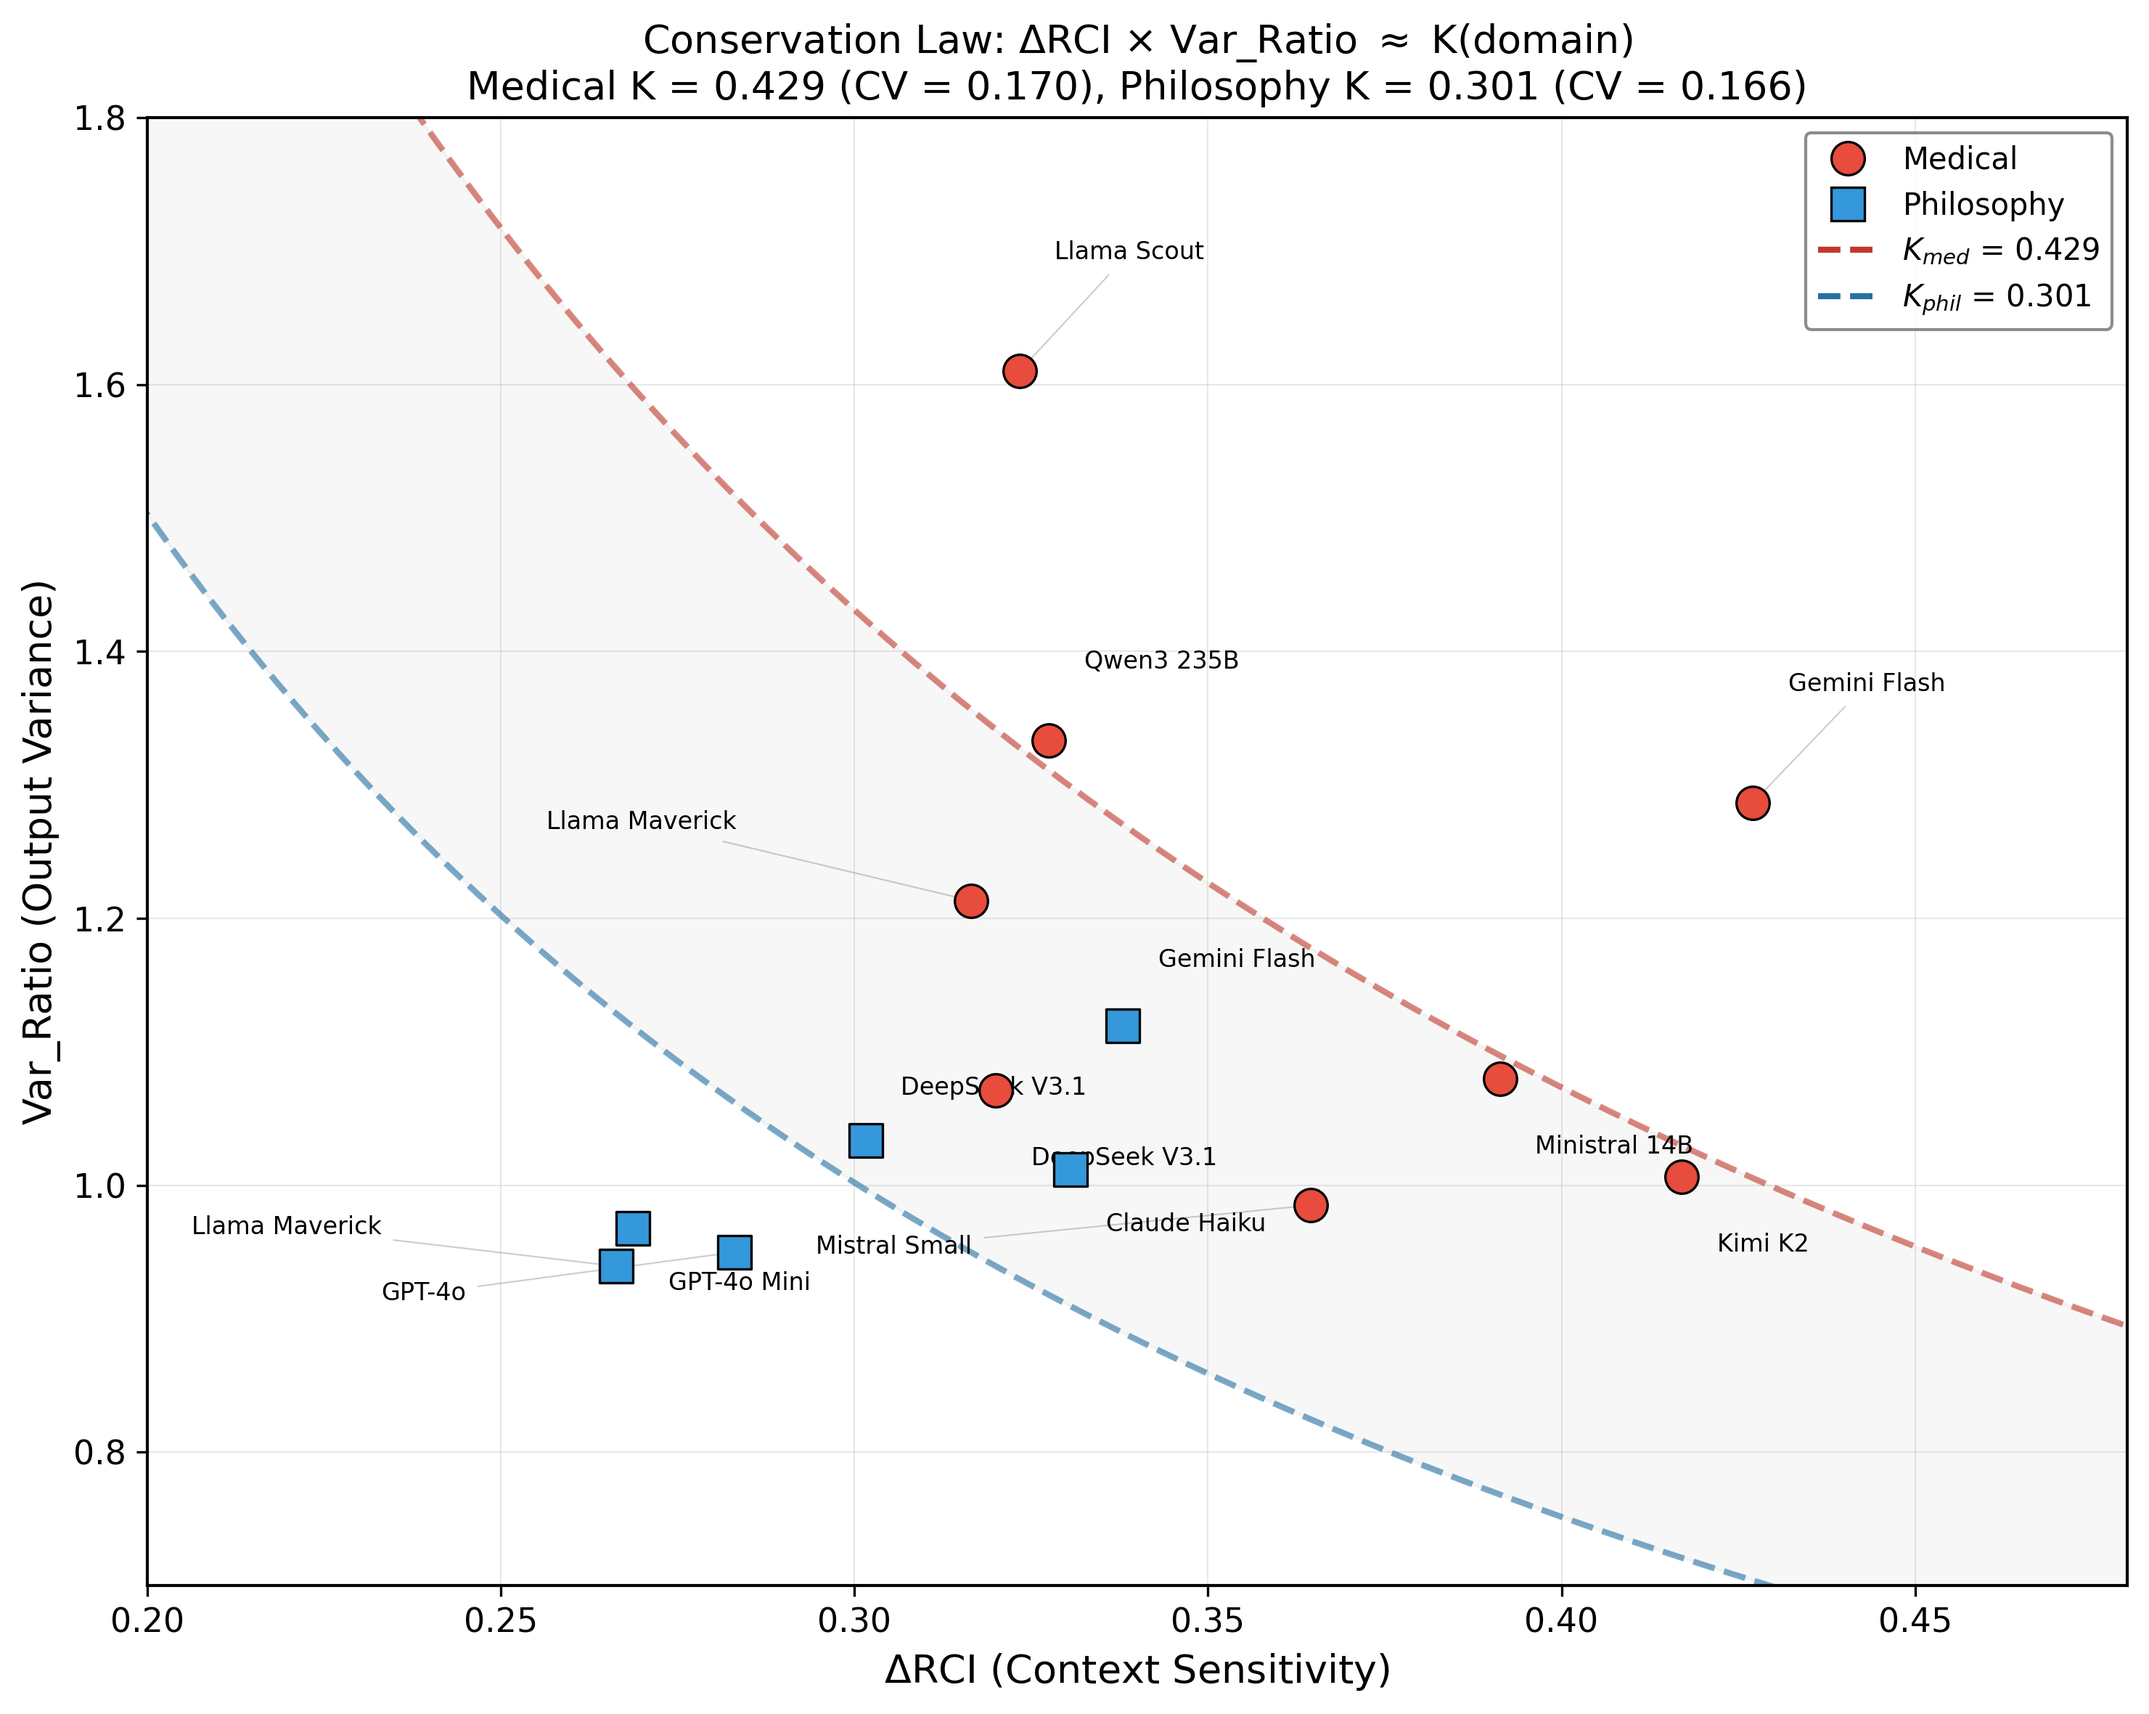
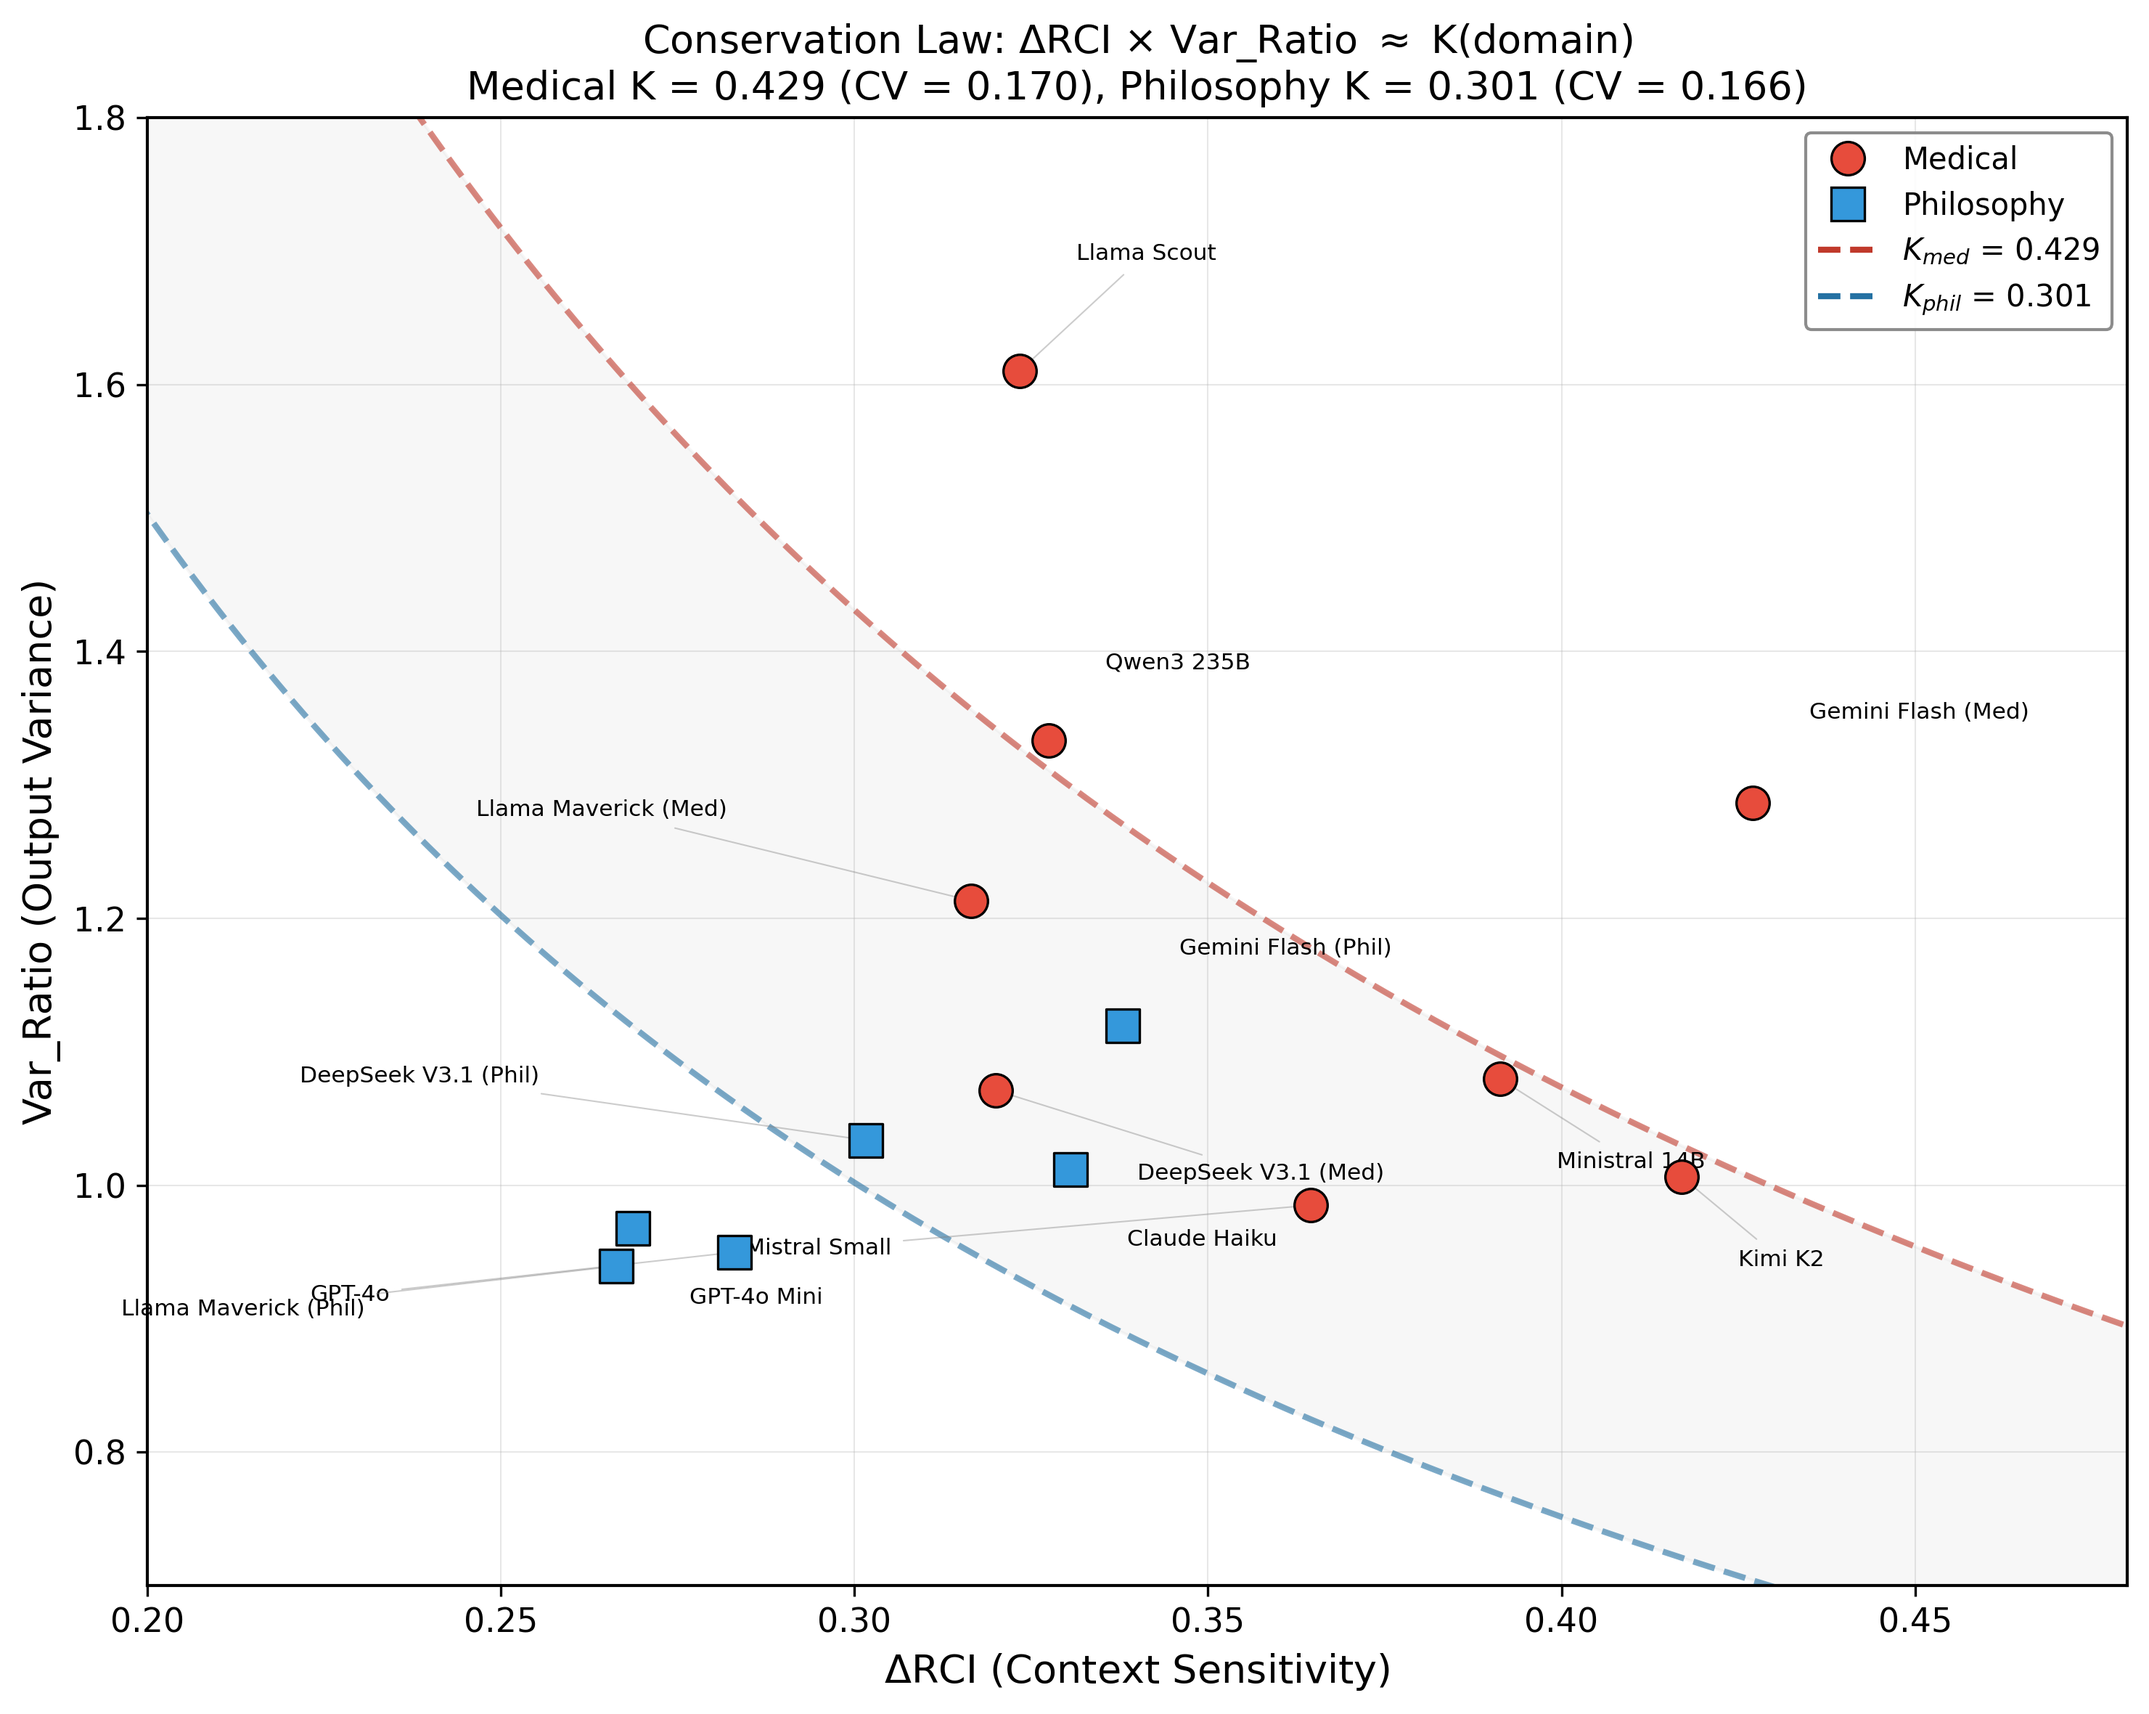
Fix Paper 6 Fig 1: add domain tags and fix label overlaps
- Add (Med)/(Phil) suffix to models appearing in both domains
  (DeepSeek V3.1, Gemini Flash, Llama Maverick)
- Fix DeepSeek V3.1 label overlap by moving Phil label left
- Adjust all label offsets for better readability
- All 14 points now clearly labeled with no ambiguity

diff --git a/scripts/analysis/paper6_figures.py b/scripts/analysis/paper6_figures.py
@@ -100,31 +100,39 @@ def fig1_conservation_hyperbolas():
         ax.scatter(d['drci'], d['var_ratio'], c='#3498db', s=120,
                    edgecolors='black', linewidths=0.8, zorder=10, marker='s')
 
+    # Models that appear in both domains — add suffix to disambiguate
+    dual_domain = {'deepseek_v3_1', 'gemini_flash', 'llama_4_maverick'}
+
     # Labels with offsets to avoid overlap
     label_offsets = {
-        ('gemini_flash', 'Medical'): (0.005, 0.08),
-        ('llama_4_scout', 'Medical'): (0.005, 0.08),
-        ('llama_4_maverick', 'Medical'): (-0.06, 0.05),
-        ('qwen3_235b', 'Medical'): (0.005, 0.05),
-        ('ministral_14b', 'Medical'): (0.005, -0.06),
-        ('kimi_k2', 'Medical'): (0.005, -0.06),
-        ('mistral_small_24b', 'Medical'): (-0.07, -0.04),
-        ('deepseek_v3_1', 'Medical'): (0.005, -0.06),
-        ('gemini_flash', 'Philosophy'): (0.005, 0.04),
-        ('claude_haiku', 'Philosophy'): (0.005, -0.05),
-        ('deepseek_v3_1', 'Philosophy'): (0.005, 0.03),
-        ('gpt4o', 'Philosophy'): (-0.05, -0.04),
-        ('gpt4o_mini', 'Philosophy'): (0.005, -0.05),
-        ('llama_4_maverick', 'Philosophy'): (-0.06, 0.02),
+        ('gemini_flash', 'Medical'): (0.008, 0.06),
+        ('llama_4_scout', 'Medical'): (0.008, 0.08),
+        ('llama_4_maverick', 'Medical'): (-0.07, 0.06),
+        ('qwen3_235b', 'Medical'): (0.008, 0.05),
+        ('ministral_14b', 'Medical'): (0.008, -0.07),
+        ('kimi_k2', 'Medical'): (0.008, -0.07),
+        ('mistral_small_24b', 'Medical'): (-0.08, -0.04),
+        ('deepseek_v3_1', 'Medical'): (0.02, -0.07),
+        ('gemini_flash', 'Philosophy'): (0.008, 0.05),
+        ('claude_haiku', 'Philosophy'): (0.008, -0.06),
+        ('deepseek_v3_1', 'Philosophy'): (-0.08, 0.04),
+        ('gpt4o', 'Philosophy'): (-0.06, -0.04),
+        ('gpt4o_mini', 'Philosophy'): (0.008, -0.06),
+        ('llama_4_maverick', 'Philosophy'): (-0.07, -0.04),
     }
 
     for d in data:
         key = (d['model'], d['domain'])
-        dx, dy = label_offsets.get(key, (0.005, 0.03))
-        ax.annotate(pretty_name(d['model']),
+        dx, dy = label_offsets.get(key, (0.008, 0.03))
+        # Add domain tag for models in both domains
+        label = pretty_name(d['model'])
+        if d['model'] in dual_domain:
+            tag = 'Med' if d['domain'] == 'Medical' else 'Phil'
+            label = f"{label} ({tag})"
+        ax.annotate(label,
                     (d['drci'], d['var_ratio']),
                     xytext=(d['drci'] + dx, d['var_ratio'] + dy),
-                    fontsize=8, ha='left', va='bottom',
+                    fontsize=7.5, ha='left', va='bottom',
                     arrowprops=dict(arrowstyle='-', color='gray', alpha=0.4, lw=0.5)
                     if abs(dx) > 0.02 or abs(dy) > 0.06 else None)
 
